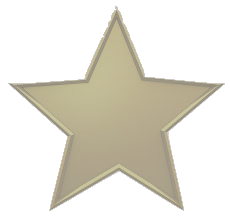
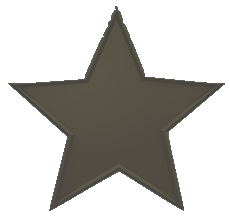
changed callbacks to use Promises instead. Preserved order on game list. changed color of disabled double star

diff --git a/Games.js b/Games.js
@@ -70,7 +70,7 @@ class Games extends React.Component{
       if (nextProps.isDouble) {
         var otherDouble = _.findIndex(this.state.ds,'isDouble', true);
         if (otherDouble == changed && otherDouble != -1) {
-          otherDouble = _findLastIndex(this.state.ds,'isDouble',true);
+          otherDouble = _.findLastIndex(this.state.ds,'isDouble',true);
         };
         if (otherDouble != changed && otherDouble != -1) {
           newDs[otherDouble] = {};
@@ -85,10 +85,6 @@ class Games extends React.Component{
         };
       };
       this.setDataSource(newDs);
-      // this.setState({
-      //   ds: newDs,
-      //   dataSource: this.state.dataSource.cloneWithRows(newDs)
-      // })
       this.state.update = false;
     }else{
       this.state.update= true;
@@ -98,11 +94,17 @@ class Games extends React.Component{
   getGames(fromLocal = true){
     console.log("network query");
     var columns = ['Week','HomeTeam','AwayTeam', 'Winner','Date','Time'];
-    ParseHelper.parseQuery('Games','Week',this.props.week, fromLocal, columns, (dataSource) =>{
-      ParseHelper.parseQuery('Selections','User',null,false,['Game','Selection','isDouble'], (selections) =>{
+    var dataSource;
+    ParseHelper.parseQuery('Games','Week',this.props.week, fromLocal, columns)
+    .then((dataSourceResult) =>{
+      dataSource = dataSourceResult
+      return ParseHelper.parseQuery('Selections','User',null,false,['Game','Selection','isDouble'],)
+    })
+    .then((selections) =>{
         // var selections = [];
         dataSource.forEach((n,i)=>{
           n.GameTime = new Date(n.Date + ' ' + n.Time);
+          n.Index = i;
           var choice = _.find(selections,'Game', n.objectID);
           if (choice) {
             n.Selection = choice.Selection;
@@ -116,7 +118,6 @@ class Games extends React.Component{
         });
         this.setDataSource(dataSource);
       });
-    });
   }
 
   setDataSource(dataSource){
@@ -138,6 +139,9 @@ class Games extends React.Component{
           return obj.GameTime.getTime() == n.GameTime.getTime();
         })
         rowIds[i] = [];
+        games.sort(function(a,b){
+          return a.Index - b.Index
+        })
         games.forEach((m,j)=>{
           rowIds[i].push(m.objectID);
           dataBlob[i+":"+m.objectID] = m
@@ -169,9 +173,6 @@ class Games extends React.Component{
         actAsAdmin:this.props.actAsAdmin
       }
     })
-  }
-  pressButton(){
-    // ParseHelper.callCloudMethod();
   }
 
   renderRow(rowData){

diff --git a/ParseHelper.js b/ParseHelper.js
@@ -1,15 +1,17 @@
 var ParseModule = require('NativeModules').ParseModule
 var _ = require('lodash');
 class ParseHelper {
-	parseQuery(classLookup, whereColumn, equalsValue, fromLocal, columns, cb){
-		var returnArray = [];
-		ParseModule.queryClass(classLookup,whereColumn,equalsValue, fromLocal, columns, (results) =>{
-			columns.unshift('objectID');
-			results.forEach((n,i) =>{
-				returnArray.push(_.zipObject(columns,n));
+	parseQuery(classLookup, whereColumn, equalsValue, fromLocal, columns){
+		return new Promise((resolve,reject)=>{
+			var returnArray = [];
+			ParseModule.queryClass(classLookup,whereColumn,equalsValue, fromLocal, columns, (results) =>{
+				columns.unshift('objectID');
+				results.forEach((n,i) =>{
+					returnArray.push(_.zipObject(columns,n));
+				});
+				resolve(returnArray);
 			});
-			cb(returnArray);
-		});
+		})
 	}
 	saveSelection(objectID, selectionId, selection, isDouble, cb){
 		ParseModule.saveSelection(objectID, selectionId, selection, isDouble, (savedId)=>{
@@ -22,20 +24,30 @@ class ParseHelper {
 	saveResult(objectID,selection,cb){
 		ParseModule.saveResult(objectID,selection,cb(selection));
 	}
-	getScoreForCurrentUser(week,cb){
-		ParseModule.getScoreForCurrentUser(week, ()=>cb(1), result=>cb(result));
+	getScoreForCurrentUser(week){
+		return new Promise((resolve, reject)=>{
+			ParseModule.getScoreForCurrentUser(week, ()=>cb(1), result=>resolve(result));
+		})
 	}
-	getAllScores(cb){
-		ParseModule.getAllScores((...results)=>cb(results));
+	getAllScores(){
+		return new Promise((resolve, reject)=>{
+			ParseModule.getAllScores((...results)=>resolve(results));
+		});
 	}
-	checkIfDoubleIsLegal(teamName,cb){
-		ParseModule.checkIfDoubleIsLegal(teamName,cont=>cb(cont));
+	checkIfDoubleIsLegal(teamName){
+		return new Promise((resolve,reject) => {
+			ParseModule.checkIfDoubleIsLegal(teamName,cont=>resolve(cont))
+		});
 	}
-	changeDoubleArray(shouldAdd,teamName,cb){
-		ParseModule.changeDoubleArray(shouldAdd,teamName, (result)=>cb())
+	changeDoubleArray(shouldAdd,teamName){
+		return new Promise((resolve,reject) =>{
+			ParseModule.changeDoubleArray(shouldAdd,teamName, (result)=>resolve())
+		})
 	}
 	setDouble(week,sectionId, cb){
-		ParseModule.setDouble(week,sectionId,(result)=>cb());
+		return new Promise((resolve,reject)=>{
+			ParseModule.setDouble(week,sectionId,(result)=>resolve());
+		})
 	}
 }
 module.exports = new ParseHelper();

diff --git a/Select.js b/Select.js
@@ -73,19 +73,24 @@ class Select extends Component{
       var selection = this.state.awaySelected ? "AwayTeam" : "HomeTeam"
       if(Date.now()< new Date(this.state.gameData.GameTime)){
         if (!this.state.isDouble) {
-          ParseHelper.checkIfDoubleIsLegal(this.state.gameData[selection],(cont)=>{
+          ParseHelper.checkIfDoubleIsLegal(this.state.gameData[selection])
+          .then((cont)=>{
             if (cont) {
-              ParseHelper.changeDoubleArray(true,this.state.gameData[selection],()=>{
-                ParseHelper.setDouble(this.state.gameData.Week, this.state.gameData.SelectionId,()=>{
-                  self.state.isDouble=!this.state.isDouble;
-                  this.returnToGame(this.state.gameData.SelectionId,selection);
-                });
-              })
+              return ParseHelper.changeDoubleArray(true,this.state.gameData[selection])
             }
             else{
-              this.setState({showError:true})
-            };
+              throw{message:"Double already exists"};
+            }
           })
+          .then(()=>{
+                return ParseHelper.setDouble(this.state.gameData.Week, this.state.gameData.SelectionId)
+              })
+          .then(()=>{
+                  self.state.isDouble=!this.state.isDouble;
+                  this.returnToGame(this.state.gameData.SelectionId,selection);
+          }).catch(err=>{
+              this.setState({showDoubleSelectedError:true})
+          });
         }
         else{
           ParseHelper.setDouble(this.state.gameData.Week, "", () => {
@@ -107,6 +112,9 @@ class Select extends Component{
     if(this.state.showDoubleError){
       possibleError = <Text style = {styles.errorText}>Please select who you think will win before selecting this as your double</Text>
     }
+    if (this.state.showDoubleSelectedError) {
+      possibleError = <Text style = {styles.errorText}>You have already selected that team as a double</Text>      
+    };
     var image;
     if (this.state.isDouble) {
       image = require('image!StarSelected')

diff --git a/Weeks.js b/Weeks.js
@@ -35,7 +35,8 @@ class Week extends React.Component{
     }
   }
   pressRow(rowData){
-    ParseHelper.getScoreForCurrentUser(rowData.week,score =>{
+    ParseHelper.getScoreForCurrentUser(rowData.week)
+    .then(score =>{
       this.props.navigator.push({
         title: 'Week '+ rowData.week + '   Score: '+score,
         component: Games,

diff --git a/Scores.js b/Scores.js
@@ -23,7 +23,8 @@ class Scores extends React.Component{
   }
 
   componentDidMount(){
-    ParseHelper.getAllScores((results)=>{
+    ParseHelper.getAllScores()
+    .then(results=>{
       console.log(results);
       this.setState({
         score:results,

diff --git a/ParseModule.m b/ParseModule.m
@@ -223,6 +223,20 @@ RCT_EXPORT_METHOD(setDouble:(NSNumber*)week selectionId:(NSString *)selectionId 
   
 }
 
+RCT_EXPORT_METHOD(getOthersPicks:(NSString *)gameId callback:(RCTResponseSenderBlock)callback){
+  PFQuery *query = [PFQuery queryWithClassName:@"Selections"];
+  [query whereKey:@"Game" equalTo:gameId];
+  [query whereKey:@"User" notEqualTo:[PFUser currentUser]];
+  [query findObjectsInBackgroundWithBlock:^(NSArray *objects, NSError *error){
+    NSMutableArray *ret = [[NSMutableArray alloc]init];
+    for (PFObject *obj in objects) {
+      [ret addObject:obj[@"Selection"]];
+    }
+    callback([ret copy]);
+  }];
+  
+}
+
 RCT_EXPORT_METHOD(changeDoubleArray:(BOOL *)shouldAdd teamName:(NSString*)teamName callback:(RCTResponseSenderBlock)callback){
   [PFCloud callFunctionInBackground:@"changeDoubleArray" withParameters:@{@"userId":[PFUser currentUser].objectId,@"team":teamName, @"shouldAdd":[NSNumber numberWithBool:shouldAdd]} block:^(NSString* result, NSError* error){
     callback(@[result]);
